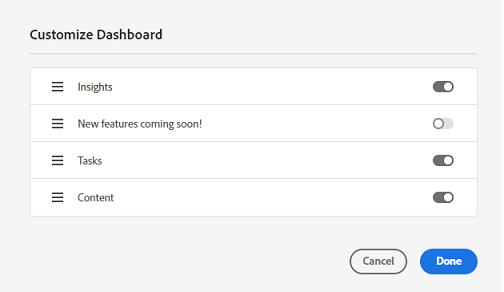
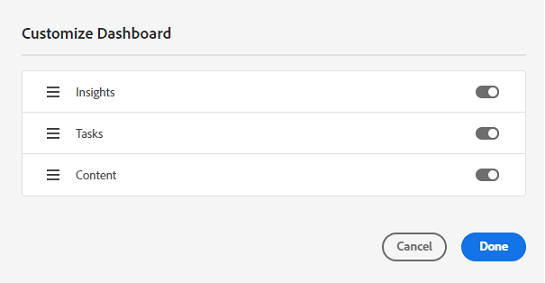
My Workspace and Trash capability updates

diff --git a/help/my-workspace.md b/help/my-workspace.md
@@ -6,17 +6,21 @@ description: My Workspace is a page that provides customizable visual modules fo
 
 Assets now includes a customizable workspace that provides widgets for convenient access to key areas of the Assets user interface and information that is most relevant to you. This page serves as a one-stop solution to provide an overview of your work items and to give quick access to key workflows. More convenient access to these options increases your efficiency and content velocity.
 
-You can access My Workspace by clicking **[!UICONTROL My Workspace]** from the items available in the left navigation pane. My Workspace includes a variety of widgets that show New features coming soon, Insights, Tasks, and Content widgets. You can configure how these widgets are displayed in your Workspace based on your preferences.
+You can access My Workspace by clicking **[!UICONTROL My Workspace]** from the items available in the left navigation pane. My Workspace includes a variety of widgets that show Insights, Tasks, and Content widgets. You can configure how these widgets are displayed in your Workspace based on your preferences.
 
 >[!NOTE]
 >
 >Insights widget is only visible to administrators.
+
+<!-->
 
 **New features coming soon**
 
 Highlights upcoming features for Assets.
 
 ![New features coming soon in Workspace](assets/new-features.png)
+
+-->
 
 **Insights**
 

diff --git a/help/navigate-view.md b/help/navigate-view.md
@@ -38,7 +38,7 @@ You can browse the folders from the main user interface or from the left sidebar
 
 * **Assets**: List of all folders in a tree view, that you have access to.
 * **Recently Viewed**: List of assets that you previewed recently. [!DNL Assets Essentials] displays only the assets that you preview. It does not display the assets that you scroll past when browsing the repository files or folders.
-* **Trash**: 
+* **Trash**: List the assets deleted from the root **[!UICONTROL Assets]** folder. You can select an asset in the Trash folder to either restore it to the original location or permanently delete it.
 
 <!-- TBD: Not sure if we want to publish these right now. CC Libs are beta as per Greg.
 * **Libraries**: Access to [!DNL Adobe Creative Cloud Team] (CCT) Libraries view. This view is visible only if the user is entitled to CCT Libraries.
